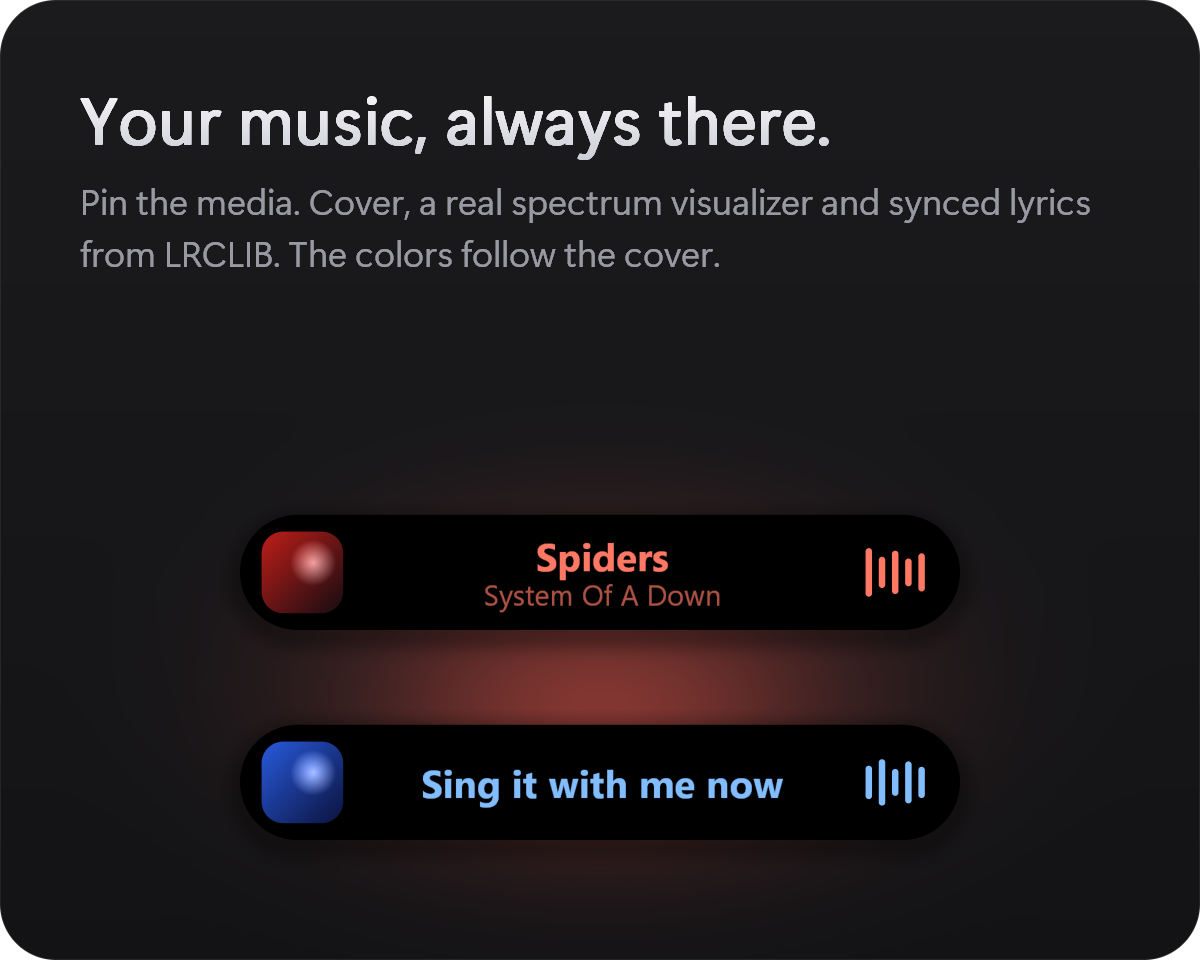
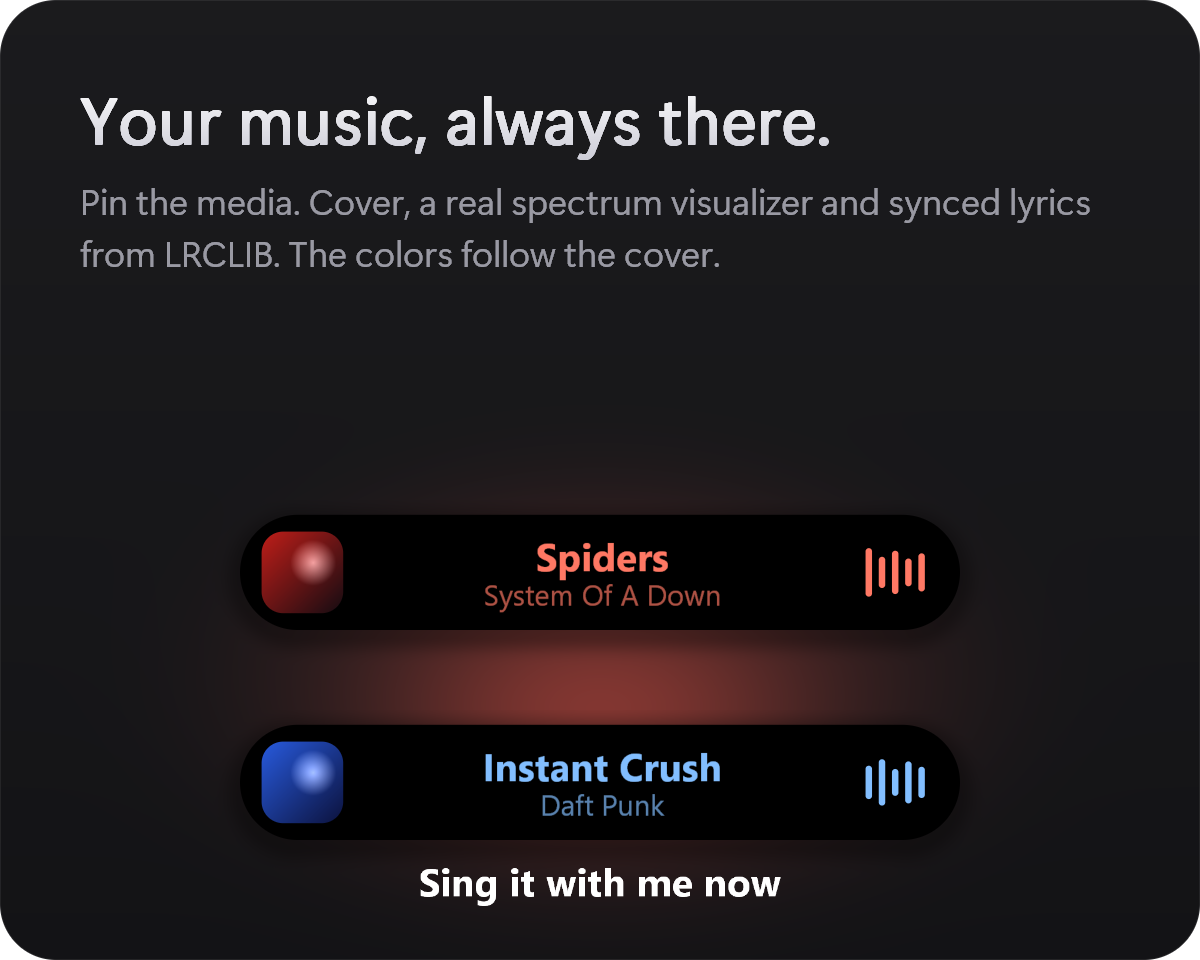
Lyrics under the pinned capsule, at most 90% of its width

Changed region(s): [[0.3392, 0.7812, 0.6475, 0.875], [0.3392, 0.9062, 0.6475, 0.9375]]

diff --git a/src/render.rs b/src/render.rs
@@ -215,7 +215,7 @@ struct KnobGeom {
     prog: f32,
 }
 
-pub fn render(buf: &mut [u32], pw: usize, _ph: usize, rect: (usize, usize, usize, usize), s: &Scene) {
+pub fn render(buf: &mut [u32], pw: usize, ph: usize, rect: (usize, usize, usize, usize), s: &Scene) {
     let unit = s.unit;
     let aa = 1.0 / unit;
     let cx = pw as f32 / 2.0;
@@ -326,6 +326,66 @@ pub fn render(buf: &mut [u32], pw: usize, _ph: usize, rect: (usize, usize, usize
                 scope.spawn(move || shade_rows(chunk, y0 + i * per));
             }
         });
+    }
+    lyric_pass(buf, pw, ph, rect, s);
+}
+
+/// How far below the capsule the lyric line reaches (logical units): the redraw area grows by this much.
+pub const LYRIC_BAND: f32 = 34.0;
+
+/// The lyric line under the pinned capsule, outside it: white with a soft shadow so it reads on any background,
+/// at most 90% of the capsule's width (a longer line is scaled down to fit). Lines cross-fade as they change.
+fn lyric_pass(buf: &mut [u32], pw: usize, ph: usize, rect: (usize, usize, usize, usize), s: &Scene) {
+    let Some(v) = &s.pin else { return };
+    let shown = s.layers.iter().flatten().filter(|l| l.kind == Kind::Pinned).map(|l| l.alpha).fold(0.0f32, f32::max);
+    let base = shown * s.alpha;
+    if base <= 0.003 || (v.lyric.is_none() && v.lyric_old.is_none()) {
+        return;
+    }
+    let e = sstep(0.0, 1.0, v.lyric_swap);
+    if v.lyric_swap < 1.0 {
+        lyric_line(buf, pw, ph, rect, s, v.lyric_old, base * (1.0 - sstep(0.0, 0.7, v.lyric_swap)), e * 3.0);
+        lyric_line(buf, pw, ph, rect, s, v.lyric, base * sstep(0.3, 1.0, v.lyric_swap), -(1.0 - e) * 3.0);
+    } else {
+        lyric_line(buf, pw, ph, rect, s, v.lyric, base, 0.0);
+    }
+}
+
+#[allow(clippy::too_many_arguments)]
+fn lyric_line(buf: &mut [u32], pw: usize, ph: usize, rect: (usize, usize, usize, usize), s: &Scene, line: Option<&TextBmp>, alpha: f32, dy: f32) {
+    let Some(tb) = line else { return };
+    if alpha <= 0.003 {
+        return;
+    }
+    let unit = s.unit;
+    let (wl, hl) = tb.size();
+    let k = (0.9 * s.w / wl).min(1.0);
+    let (dw, dh) = (wl * k * unit, hl * k * unit);
+    let left = pw as f32 / 2.0 - dw / 2.0;
+    let top = (TOP + s.h + 17.0 + dy) * unit - dh / 2.0;
+    let scale = TEXT_R / (unit * k); // device pixels -> raster pixels
+    let cover = |x: f32, y: f32| tb.sample((x - left) * scale, (y - top) * scale);
+    let (x0, y0, x1, y1) = rect;
+    let rows = ((top - 4.0).floor().max(y0 as f32) as usize)..((top + dh + 4.0).ceil().min(y1.min(ph) as f32) as usize);
+    let cols = ((left - 4.0).floor().max(x0 as f32) as usize)..((left + dw + 4.0).ceil().min(x1.min(pw) as f32) as usize);
+    let blend = |px: &mut u32, rgb: f32, a: f32| {
+        if a <= 0.0 {
+            return;
+        }
+        let ch = |shift: u32| ((*px >> shift) & 0xFF) as f32;
+        let out = |shift: u32| (rgb * 255.0 * a + ch(shift) * (1.0 - a) + 0.5).min(255.0) as u32;
+        *px = out(24) << 24 | out(16) << 16 | out(8) << 8 | out(0);
+    };
+    let d = 1.6 * unit.max(1.0);
+    for y in rows {
+        for x in cols.clone() {
+            let (fx, fy) = (x as f32 + 0.5, y as f32 + 0.5);
+            let text = cover(fx, fy);
+            let soft = (cover(fx - d, fy + d) + cover(fx + d, fy + d) + cover(fx, fy + 1.8 * d) + cover(fx, fy - 0.2 * d)) / 4.0;
+            let px = &mut buf[y * pw + x];
+            blend(px, 0.0, (soft * 0.75 * alpha).min(1.0));
+            blend(px, 1.0, (text * alpha).min(1.0));
+        }
     }
 }
 
@@ -552,35 +612,8 @@ fn pinned_content(p: &mut Px, tx: f32, ty: f32, aa: f32, s: &Scene, ca: f32) {
             }
         }
 
-        // title (bold) over artist, centered between the cover and the visualizer; with lyrics the current line
-        // fills the middle alone and lines cross-fade as they change
-        let lyric_mode = v.prev.is_none() && (v.lyric.is_some() || (v.lyric_swap < 1.0 && v.lyric_old.is_some()));
-        if let (Some(song), true) = (song, lyric_mode) {
-            let (left, view, unit) = (52.0, s.w - 52.0 - 50.0, 1.0 / aa);
-            let e = sstep(0.0, 1.0, v.lyric_swap);
-            let mut draw = |lyric: Option<&TextBmp>, alpha: f32, dy: f32| {
-                if alpha <= 0.003 {
-                    return;
-                }
-                match lyric {
-                    // a lyric line fills the middle on its own
-                    Some(l) => p.over(accent, ca * alpha * text_mid(l, tx, ry + dy, left, view, s.marq, unit)),
-                    None => match &song.small {
-                        Some(small) => {
-                            p.over(accent, ca * alpha * text_mid(&song.big, tx, ry + 7.0 + dy, left, view, s.marq, unit));
-                            p.over(dim, ca * alpha * 0.95 * text_mid(small, tx, ry - 9.0 + dy, left, view, s.marq, unit));
-                        }
-                        None => p.over(accent, ca * alpha * text_mid(&song.big, tx, ry + dy, left, view, s.marq, unit)),
-                    },
-                }
-            };
-            if v.lyric_swap < 1.0 {
-                draw(v.lyric_old, 1.0 - sstep(0.0, 0.7, v.lyric_swap), e * 3.0);
-                draw(v.lyric, sstep(0.3, 1.0, v.lyric_swap), -(1.0 - e) * 3.0);
-            } else {
-                draw(v.lyric, 1.0, 0.0);
-            }
-        } else if let Some(song) = song {
+        // title (bold) over artist, centered between the cover and the visualizer
+        if let Some(song) = song {
             let (left, view, unit) = (52.0, s.w - 52.0 - 50.0, 1.0 / aa);
             let x = tx - slide;
             match &song.small {

diff --git a/src/island.rs b/src/island.rs
@@ -999,21 +999,6 @@ fn lyric_reset(s: &mut State) {
     s.steady_drawn = false;
 }
 
-/// A lyric line as a bitmap: the biggest size at which it fits between the cover and the visualizer.
-fn fit_line(text: &str) -> Option<TextBmp> {
-    let room = ui::PINNED.0 - 52.0 - 50.0 - 6.0;
-    let mut last = None;
-    for h in [-60, -54, -48, -43, -38] {
-        let bmp = text::raster(text, h, 700)?;
-        let fits = bmp.size().0 <= room;
-        last = Some(bmp);
-        if fits {
-            break;
-        }
-    }
-    last
-}
-
 /// Looks at the clock: when the song has moved on to another lyric line, it takes the place of the title.
 unsafe fn lyric_tick(hwnd: HWND) {
     let s = st();
@@ -1028,12 +1013,12 @@ unsafe fn lyric_tick(hwnd: HWND) {
     }
     s.lyric_key = key;
     s.lyric_idx = idx;
-    let bmp = line.filter(|(_, t)| !t.is_empty()).and_then(|(_, t)| fit_line(&t)).map(Arc::new);
+    let bmp = line.filter(|(_, t)| !t.is_empty()).and_then(|(_, t)| text::raster(&t, -56, 700)).map(Arc::new);
     if bmp.is_none() && s.lyric.is_none() {
         return; // still the title: nothing to change
     }
     s.lyric_old = s.lyric.take();
-    (s.lyric, s.lyric_swap, s.marq, s.steady_drawn) = (bmp, 0.0, 0.0, false);
+    (s.lyric, s.lyric_swap, s.steady_drawn) = (bmp, 0.0, false);
     frames(hwnd);
 }
 
@@ -1974,7 +1959,8 @@ fn draw(rows: Option<(f32, f32)>, cols: Option<(f32, f32)>) {
     let (pw, ph) = (s.surf.pw, s.surf.ph);
 
     // redraw the union of where the shape is now and where it was
-    let now = render::bounds(pw, ph, s.unit * s.hs, s.w, s.h);
+    let lyric_room = if s.kind == Kind::Pinned && (s.lyric.is_some() || s.lyric_old.is_some()) { render::LYRIC_BAND } else { 0.0 };
+    let now = render::bounds(pw, ph, s.unit * s.hs, s.w, s.h + lyric_room);
     let rect = match (rows, s.prev_rect) {
         (Some((top, bottom)), _) => {
             let u = s.unit * s.hs;

diff --git a/src/demo.rs b/src/demo.rs
@@ -32,9 +32,10 @@ struct Image {
 /// The shape drawn by the renderer, cropped to what it covers.
 fn shoot(scene: &Scene) -> Image {
     let unit = scene.unit;
-    let (pw, ph) = (((scene.w + 2.0 * ui::SHADOW) * unit).ceil() as usize + 8, ((ui::TOP + scene.h + ui::SHADOW) * unit).ceil() as usize + 8);
+    let extra = if scene.pin.as_ref().is_some_and(|p| p.lyric.is_some()) { LYRIC_BAND } else { 0.0 };
+    let (pw, ph) = (((scene.w + 2.0 * ui::SHADOW) * unit).ceil() as usize + 8, ((ui::TOP + scene.h + extra + ui::SHADOW) * unit).ceil() as usize + 8);
     let mut buf = vec![0u32; pw * ph];
-    let rect = bounds(pw, ph, unit, scene.w, scene.h);
+    let rect = bounds(pw, ph, unit, scene.w, scene.h + extra);
     render(&mut buf, pw, ph, (rect.0, rect.1, rect.2, rect.3), scene);
     let (x0, x1, y1) = (rect.0, rect.2, rect.3);
     let y0 = ((ui::TOP - 6.0) * unit) as usize;
